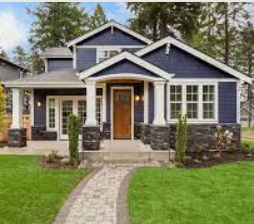
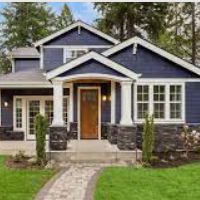
Imported font, adjusted photos

diff --git a/homelist.html b/homelist.html
@@ -4,7 +4,6 @@
     <meta charset="UTF-8" />
     <meta name="viewport" content="width=device-width, initial-scale=1.0" />
     <title>Document</title>
-    <link rel="stylesheet" href="src/styles.css" />
     <link
       href="https://cdn.jsdelivr.net/npm/bootstrap@5.0.2/dist/css/bootstrap.min.css"
       rel="stylesheet"
@@ -16,6 +15,13 @@
       integrity="sha384-MrcW6ZMFYlzcLA8Nl+NtUVF0sA7MsXsP1UyJoMp4YLEuNSfAP+JcXn/tWtIaxVXM"
       crossorigin="anonymous"
     ></script>
+    <link rel="preconnect" href="https://fonts.googleapis.com" />
+    <link rel="preconnect" href="https://fonts.gstatic.com" crossorigin />
+    <link
+      href="https://fonts.googleapis.com/css2?family=Playpen+Sans&display=swap"
+      rel="stylesheet"
+    />
+    <link rel="stylesheet" href="src/styles.css" />
   </head>
   <body>
     <div class="container">
@@ -31,9 +37,9 @@
         <div class="col-2"><span class="profile-pic">MG</span></div>
       </div>
       <div class="row">
-        <div class="col-md-9">
+        <div class="col-lg-12">
           <div class="row d-flex justify-content-around">
-            <div class="col-lg-3">
+            <div class="col-lg-4 mt-3 mb-3">
               <img src="src/house-1.PNG" alt="option-1" class="img-fluid" />
               <h5>$670, 3 mi from school</h5>
               <h3>George</h3>
@@ -44,8 +50,14 @@
                 minima vero! Quam illum reprehenderit, alias ratione dolores
                 voluptatem! Dignissimos nobis nostrum non velit.
               </p>
+              <a href="#">See full bio</a><br />
+              <img
+                src="src/map.PNG"
+                alt="map of home location"
+                class="img-fluid"
+              />
             </div>
-            <div class="col-lg-3">
+            <div class="col-lg-4 mt-3 mb-3">
               <img src="src/house-2.PNG" alt="option-2" class="img-fluid" />
               <h5>$750, 1.2 mi from school</h5>
               <h3>Jane</h3>
@@ -56,10 +68,16 @@
                 minima vero! Quam illum reprehenderit, alias ratione dolores
                 voluptatem! Dignissimos nobis nostrum non velit.
               </p>
+              <a href="#">See full bio</a><br />
+              <img
+                src="src/map.PNG"
+                alt="map of home location"
+                class="img-fluid"
+              />
             </div>
-            <div class="col-lg-3">
+            <div class="col-lg-4 mt-3 mb-3">
               <img src="src/house-3.PNG" alt="option-3" class="img-fluid" />
-              <h5>$700, 3 mi from school</h5>
+              <h5>$700, 2.3 mi from school</h5>
               <h3>Jill</h3>
               <h4>About Me</h4>
               <p>
@@ -68,17 +86,26 @@
                 minima vero! Quam illum reprehenderit, alias ratione dolores
                 voluptatem! Dignissimos nobis nostrum non velit.
               </p>
+              <a href="#">See full bio</a> <br />
+              <img
+                src="src/map.PNG"
+                alt="map of home location"
+                class="img-fluid"
+              />
             </div>
           </div>
         </div>
-        <div class="col-lg-3">
-          <img
-            src="src/map.PNG"
-            alt="map of housing location"
-            class="img-fluid"
-          />
-        </div>
       </div>
+      <footer>
+        <nav>
+          <ul>
+            <li><a href="index.html">Home</a></li>
+            <li><a href="homelist.html">Listings</a></li>
+            <li><a href="#">Students</a></li>
+            <li><a href="#">Contact Us</a></li>
+          </ul>
+        </nav>
+      </footer>
     </div>
   </body>
 </html>

diff --git a/index.html b/index.html
@@ -5,6 +5,12 @@
     <meta name="viewport" content="width=device-width, initial-scale=1.0" />
 
     <title>Document</title>
+    <link rel="preconnect" href="https://fonts.googleapis.com" />
+    <link rel="preconnect" href="https://fonts.gstatic.com" crossorigin />
+    <link
+      href="https://fonts.googleapis.com/css2?family=Playpen+Sans&display=swap"
+      rel="stylesheet"
+    />
     <link rel="stylesheet" href="src/styles.css" />
   </head>
 
@@ -27,7 +33,7 @@
       <footer>
         <nav>
           <ul>
-            <li><a href="#">Home</a></li>
+            <li><a href="index.html">Home</a></li>
             <li><a href="homelist.html">Listings</a></li>
             <li><a href="#">Students</a></li>
             <li><a href="#">Contact Us</a></li>

diff --git a/src/styles.css b/src/styles.css
@@ -1,3 +1,9 @@
+h3,
+h4,
+h5 {
+  font-family: "Playpen Sans", cursive;
+}
+
 header {
   background-image: url("hero.PNG");
   background-position: center;
@@ -21,6 +27,10 @@ li {
 a {
   color: black;
   text-decoration: none;
+}
+
+p {
+  font-family: Arial, Helvetica, sans-serif;
 }
 
 .main {
